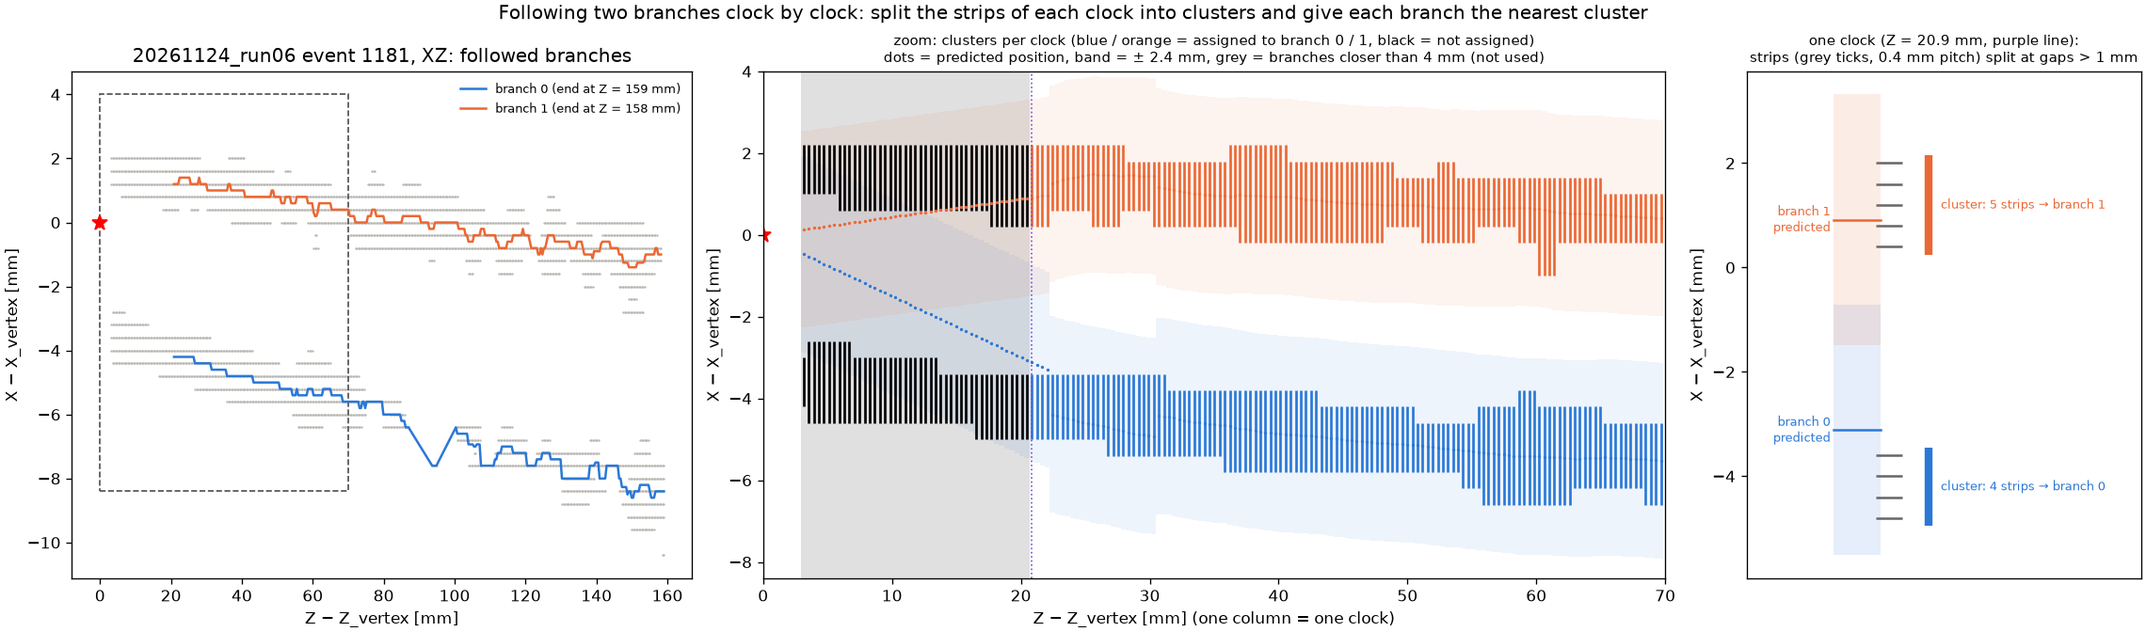
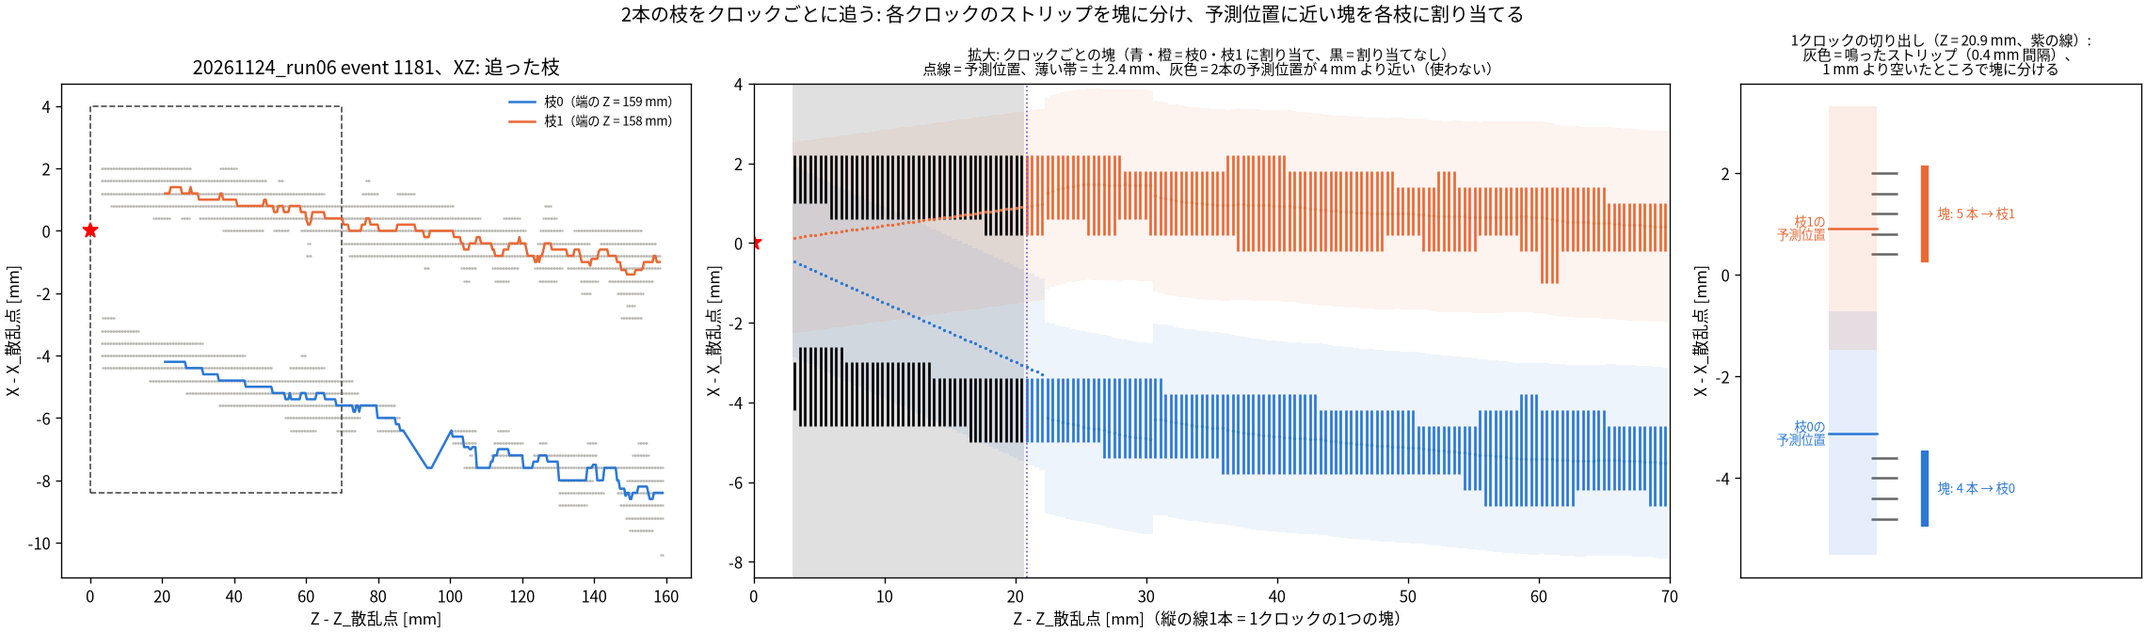
pair_analysis: README の説明用の図を日本語にし、予測に使う範囲の図を追加
模式図・相関の分布・塊の図・stage5 のイベントの絵を日本語にした（pipeline/plot_style.py で
Noto Sans CJK JP を使う）。stage4 の結果の図は英語のまま。
円の範囲（scan.radius_mm、pairing.context_mm）と、予測に使う Z 方向の帯（refit_length_mm）の
図（figures/pairing_ranges.png）を追加し、README に説明を書いた。
塊の「重心」を「中心」（ストリップの位置の平均、重みなし）に直した。

diff --git a/ETCC_cal/pair_analysis/make_cluster_figure.py b/ETCC_cal/pair_analysis/make_cluster_figure.py
@@ -2,9 +2,10 @@
 """README 用: 枝を追うときの「塊」の分け方と割り当てを、実際の DD イベント（1つの投影）で描く。raw を読む（SSD が要る）。
 
   python3 ETCC_cal/pair_analysis/make_cluster_figure.py [--run 20261124_run06] [--event 1181] [--axis 0] [--zoom 0 70]
-  → ETCC_cal/pair_analysis/figures/pairing_clusters.png
+  → ETCC_cal/pair_analysis/figures/pairing_clusters.png（塊の分け方と割り当て）
+    ETCC_cal/pair_analysis/figures/pairing_ranges.png（円の範囲と、予測に使う Z 方向の帯）
 
-左: 投影の全体（灰色の点 = ストリップ、色の線 = 枝に割り当てた塊の重心、四角 = 拡大する範囲）。
+左: 投影の全体（灰色の点 = ストリップ、色の線 = 枝に割り当てた塊の中心、四角 = 拡大する範囲）。
 中: 拡大。各クロックの塊を縦の線で描き、青 = 枝0、橙 = 枝1 に割り当てた塊、黒 = どちらにも割り当てなかった塊。
     細い点線 = 各枝の予測位置、薄い帯 = 予測位置 ± window_mm。灰色の網かけ = 2本の予測位置が shared_mm より近いクロック（使わない）。
 右: 1クロックの切り出し。ストリップ（縦の目盛り）を cluster_gap_mm より離れたところで塊に分け、予測位置に近い塊を割り当てる。
@@ -22,6 +23,7 @@ import numpy as np
 
 from pipeline.branch_pairing import follow_branches
 from pipeline.config import Pipeline
+from pipeline.plot_style import use_japanese_font
 from pipeline.stage5_event_display import read_hits
 
 COLORS = ("#2a78d6", "#eb6834")
@@ -35,7 +37,10 @@ def main():
     parser.add_argument("--event", type=int, default=1181, help="trig（epoch 0）")
     parser.add_argument("--axis", type=int, default=0, help="0 = XZ, 1 = YZ")
     parser.add_argument("--zoom", type=float, nargs=2, default=[0.0, 70.0], help="拡大する Z の範囲 [mm]")
+    parser.add_argument("--predict-at", type=float, default=100.0, help="予測の例を描く Z [mm]（pairing_ranges.png）")
+    parser.add_argument("--predict-branch", type=int, default=0, help="予測の例を描く枝")
     args = parser.parse_args()
+    use_japanese_font()
 
     pipeline = Pipeline(args.config)
     settings = pipeline.pairing
@@ -54,13 +59,13 @@ def main():
     ax = axes[0]
     ax.scatter(points[:, 0], points[:, 1], s=2, color="#b8b7b2", lw=0)
     for k in range(2):
-        ax.plot(paths[k][:, 0], paths[k][:, 1], color=COLORS[k], lw=1.5, label=f"branch {k} (end at Z = {ends[k]:.0f} mm)")
+        ax.plot(paths[k][:, 0], paths[k][:, 1], color=COLORS[k], lw=1.5, label=f"枝{k}（端の Z = {ends[k]:.0f} mm）")
     ax.plot(0, 0, "r*", ms=10)
     lo, hi = args.zoom
     visible = (points[:, 0] >= lo) & (points[:, 0] <= hi)
     ylo, yhi = points[visible, 1].min() - 2, points[visible, 1].max() + 2
     ax.add_patch(plt.Rectangle((lo, ylo), hi - lo, yhi - ylo, fill=False, ls="--", color="0.3"))
-    ax.set(xlabel="Z − Z_vertex [mm]", ylabel=f"{name} − {name}_vertex [mm]", title=f"{args.run} event {args.event}, {name}Z: followed branches")
+    ax.set(xlabel="Z - Z_散乱点 [mm]", ylabel=f"{name} - {name}_散乱点 [mm]", title=f"{args.run} event {args.event}、{name}Z: 追った枝")
     ax.legend(fontsize=8, frameon=False)
 
     ax = axes[1]
@@ -85,9 +90,9 @@ def main():
         example = next(r for r in shown if not r["shared"])
     ax.axvline(example["dz"], color="#7b4fd0", lw=1, ls=":")
     ax.plot(0, 0, "r*", ms=10)
-    ax.set(xlim=(lo, hi), ylim=(ylo, yhi), xlabel="Z − Z_vertex [mm] (one column = one clock)", ylabel=f"{name} − {name}_vertex [mm]",
-           title="zoom: clusters per clock (blue / orange = assigned to branch 0 / 1, black = not assigned)\n"
-                 f"dots = predicted position, band = ± {window:g} mm, grey = branches closer than {settings['shared_mm']:g} mm (not used)")
+    ax.set(xlim=(lo, hi), ylim=(ylo, yhi), xlabel="Z - Z_散乱点 [mm]（縦の線1本 = 1クロックの1つの塊）", ylabel=f"{name} - {name}_散乱点 [mm]",
+           title="拡大: クロックごとの塊（青・橙 = 枝0・枝1 に割り当て、黒 = 割り当てなし）\n"
+                 f"点線 = 予測位置、薄い帯 = ± {window:g} mm、灰色 = 2本の予測位置が {settings['shared_mm']:g} mm より近い（使わない）")
     ax.title.set_fontsize(9)
 
     ax = axes[2]  # 1クロックの切り出し
@@ -97,19 +102,76 @@ def main():
     for g, group in enumerate(r["groups"]):
         color = COLORS[owner[g]] if g in owner else "black"
         ax.plot([0.25, 0.25], [group.min() - 0.15, group.max() + 0.15], color=color, lw=5, solid_capstyle="butt")
-        ax.text(0.33, group.mean(), f"cluster: {len(group)} strips" + (f" → branch {owner[g]}" if g in owner else " (not assigned)"),
+        ax.text(0.33, group.mean(), f"塊: {len(group)} 本" + (f" → 枝{owner[g]}" if g in owner else "（割り当てなし）"),
                 va="center", fontsize=8, color=color)
     for k in range(2):
         if r["alive"][k]:
             p = r["predicted"][k]
             ax.plot([-0.35, -0.05], [p, p], color=COLORS[k], lw=1.5)
             ax.fill_between([-0.35, -0.05], p - window, p + window, color=COLORS[k], alpha=0.12, lw=0)
-            ax.text(-0.37, p, f"branch {k}\npredicted", ha="right", va="center", fontsize=8, color=COLORS[k])
-    ax.set(xlim=(-0.9, 1.6), xticks=[], ylabel=f"{name} − {name}_vertex [mm]",
-           title=f"one clock (Z = {r['dz']:.1f} mm, purple line):\nstrips (grey ticks, 0.4 mm pitch) split at gaps > {settings['cluster_gap_mm']:g} mm")
+            ax.text(-0.37, p, f"枝{k}の\n予測位置", ha="right", va="center", fontsize=8, color=COLORS[k])
+    ax.set(xlim=(-0.9, 1.6), xticks=[], ylabel=f"{name} - {name}_散乱点 [mm]",
+           title=f"1クロックの切り出し（Z = {r['dz']:.1f} mm、紫の線）:\n灰色 = 鳴ったストリップ（0.4 mm 間隔）、\n{settings['cluster_gap_mm']:g} mm より空いたところで塊に分ける")
     ax.title.set_fontsize(9)
-    fig.suptitle("Following two branches clock by clock: split the strips of each clock into clusters and give each branch the nearest cluster")
+    fig.suptitle("2本の枝をクロックごとに追う: 各クロックのストリップを塊に分け、予測位置に近い塊を各枝に割り当てる")
     target = Path(__file__).parent / "figures/pairing_clusters.png"
+    fig.savefig(target, dpi=120)
+    print("saved", target)
+    plot_ranges(args, pipeline, saved, row, points, paths, name)
+
+
+def plot_ranges(args, pipeline, saved, row, points, paths, name):
+    """円の範囲（scan.radius_mm、pairing.context_mm）と、予測に使う Z 方向の帯（refit_length_mm）を描く。"""
+    settings = pipeline.pairing
+    radius, context, refit = pipeline.scan["radius_mm"], settings["context_mm"], settings["refit_length_mm"]
+    window = settings["window_mm"]
+    fig, axes = plt.subplots(1, 2, figsize=(17, 5.8), constrained_layout=True, gridspec_kw={"width_ratios": [1, 1.25]})
+
+    ax = axes[0]  # 円の範囲
+    ax.scatter(points[:, 0], points[:, 1], s=2, color="#b8b7b2", lw=0)
+    theta = np.linspace(-np.pi / 2, np.pi / 2, 200)
+    ax.plot(radius * np.cos(theta), radius * np.sin(theta), color="#1baf7a", lw=1.5,
+            label=f"scan.radius_mm = {radius:g} mm（円）: 出発点の2本 fit に使うストリップ")
+    ax.plot(context * np.cos(theta), context * np.sin(theta), color="#7b4fd0", lw=1.5, ls="--",
+            label=f"pairing.context_mm = {context:g} mm（円）: 枝を追うのに使うストリップ")
+    z = np.array([0, context])
+    for k in range(2):
+        slope = saved["double"][row, args.axis, k]
+        ax.plot(z, slope * z, color=COLORS[k], lw=1, ls=":", label=f"枝{k}の出発点の直線（2本 fit）")
+    ax.plot(0, 0, "r*", ms=10)
+    ax.set(xlim=(-5, context + 10), ylim=(-context / 2, context / 2), xlabel="Z - Z_散乱点 [mm]", ylabel=f"{name} - {name}_散乱点 [mm]",
+           title="円の範囲: 投影の平面での散乱点からの距離 √(dz² + t²)")
+    ax.set_aspect("equal")
+    ax.legend(fontsize=7, frameon=False, loc="lower left")
+
+    ax = axes[1]  # Z 方向の帯で予測
+    k = args.predict_branch
+    path = paths[k]
+    z0 = args.predict_at
+    before = path[path[:, 0] < z0]
+    last = before[-1, 0]
+    used = before[before[:, 0] >= last - refit]
+    slope, intercept = np.polyfit(used[:, 0], used[:, 1], 1)
+    predicted = slope * z0 + intercept
+    lo, hi = last - refit - 25, z0 + 15
+    near = (points[:, 0] >= lo) & (points[:, 0] <= hi)
+    ax.scatter(points[near, 0], points[near, 1], s=3, color="#b8b7b2", lw=0, label="ストリップ")
+    ax.axvspan(last - refit, last, color=COLORS[k], alpha=0.10, lw=0,
+               label=f"refit_length_mm = {refit:g} mm: Z 方向の帯（dz >= 最後の中心 - {refit:g} mm）、円ではない")
+    other = before[before[:, 0] < last - refit]
+    ax.plot(other[:, 0], other[:, 1], "o", ms=3, color=COLORS[k], alpha=0.35, label=f"枝{k}の前の方の中心（使わない）")
+    ax.plot(used[:, 0], used[:, 1], "o", ms=3.5, color=COLORS[k], label=f"fit に使う中心（{len(used)} 個）")
+    zz = np.linspace(last - refit, z0, 50)
+    ax.plot(zz, slope * zz + intercept, color="black", lw=1.2, label="最小二乗の直線 t = 傾き·dz + 切片")
+    ax.errorbar([z0], [predicted], yerr=[window], fmt="s", color="black", ms=6, capsize=5,
+                label=f"Z = {z0:g} mm での予測位置 ± window_mm（{window:g} mm）")
+    ax.axvline(last, color="0.4", lw=0.8, ls=":")
+    ax.text(last, used[:, 1].max() + 3, " 最後の中心", fontsize=8, color="0.3")
+    ax.set(xlim=(lo, hi), xlabel="Z - Z_散乱点 [mm]", ylabel=f"{name} - {name}_散乱点 [mm]",
+           title=f"枝{k}の Z = {z0:g} mm での予測: その枝の塊の中心のうち、Z で直近 {refit:g} mm のものに直線を当てる")
+    ax.legend(fontsize=7, frameon=False, loc="best")
+    fig.suptitle(f"{args.run} event {args.event}、{name}Z: 枝を追うときに使う範囲")
+    target = Path(__file__).parent / "figures/pairing_ranges.png"
     fig.savefig(target, dpi=120)
     print("saved", target)
 

diff --git a/ETCC_cal/pair_analysis/pipeline/stage5_event_display.py b/ETCC_cal/pair_analysis/pipeline/stage5_event_display.py
@@ -16,6 +16,7 @@ from tpc_projected_pair import projected_hits
 from vertex_sphere import take_local_cells
 
 from .branch_pairing import correlation, decide, follow_branches
+from .plot_style import use_japanese_font
 from .stage3_classify import CLASS_NAMES, DD, DS, SD, classify
 
 BRANCH_COLORS = ("#2a78d6", "#eb6834")
@@ -55,14 +56,14 @@ def draw_projection(ax, hits, axis, single, double, is_two, radius, context):
         for branch in range(2):
             ax.plot(z, double[branch] * z, color=BRANCH_COLORS[branch], lw=1.4, alpha=0.85)
         a0, a1 = np.degrees(np.arctan(double[:2]))
-        label = f"2 lines: {a0:.1f}°, {a1:.1f}° (sep {a1 - a0:.1f}°), Z span {double[4]:.0f}/{double[5]:.0f} mm"
+        label = f"2本: {a0:.1f}°, {a1:.1f}°（差 {a1 - a0:.1f}°）、Z 幅 {double[4]:.0f}/{double[5]:.0f} mm"
     else:
         if np.isfinite(single[0]):
             ax.plot(z, single[0] * z, color=LINE_COLOR, lw=1.4, alpha=0.85)
-        label = f"1 line: {np.degrees(np.arctan(single[0])):.1f}°, on line {int(single[1])}/{int(single[2])}"
+        label = f"1本: {np.degrees(np.arctan(single[0])):.1f}°、乗った点 {int(single[1])}/{int(single[2])}"
     ax.add_patch(plt.Circle((0, 0), radius, fill=False, ls=":", color="0.5"))
     ax.plot(0, 0, "r*", ms=9)
-    ax.set(xlim=(-5, context), ylim=(-context / 2, context / 2), xlabel="Z − Z_vertex [mm]", ylabel=f"{name} − {name}_vertex [mm]")
+    ax.set(xlim=(-5, context), ylim=(-context / 2, context / 2), xlabel="Z - Z_散乱点 [mm]", ylabel=f"{name} - {name}_散乱点 [mm]")
     ax.set_aspect("equal")
     ax.set_title(f"{name}Z: {label}", fontsize=8)
 
@@ -73,6 +74,7 @@ def run(pipeline, cut_set_names=None):
         print("== stage5: event display disabled in the config", flush=True)
         return
     print("== stage5: event display", flush=True)
+    use_japanese_font()  # このステージの図は README の説明用なので日本語にする
     dataset, run_name = settings["dataset"], settings["run"]
     radius, context = pipeline.scan["radius_mm"], settings["context_mm"]
     saved = np.load(pipeline.stage_dir(2, dataset) / f"{run_name}.npz")
@@ -100,9 +102,9 @@ def run(pipeline, cut_set_names=None):
                 event = int(saved["event"][i])
                 x, y, z = saved["vertex"][i]
                 extra = f", ψ = {psi[i]:.0f}°" if code == DD else ""
-                axes[r, 0].text(0.01, 0.97, f"{run_name} event {event >> 32}:{event & 0xFFFFFFFF}\nvertex ({x:.1f}, {y:.1f}, {z:.1f}) mm{extra}",
+                axes[r, 0].text(0.01, 0.97, f"{run_name} event {event >> 32}:{event & 0xFFFFFFFF}\n散乱点 ({x:.1f}, {y:.1f}, {z:.1f}) mm{extra}",
                                 transform=axes[r, 0].transAxes, va="top", fontsize=7)
-            fig.suptitle(f"[{cut_name}] {CLASS_NAMES[code]} events, {run_name}: black = strips used (≤ {radius:g} mm), grey = up to {context:g} mm")
+            fig.suptitle(f"[{cut_name}] {CLASS_NAMES[code]} のイベント、{run_name}: 黒 = fit に使ったストリップ（{radius:g} mm 以内）、灰色 = {context:g} mm 以内")
             target = folder / f"{run_name}_{CLASS_NAMES[code]}_{settings['skip']}.png"
             fig.savefig(target, dpi=110)
             plt.close(fig)
@@ -113,7 +115,7 @@ def run(pipeline, cut_set_names=None):
 def draw_pairing(pipeline, cut_name, cuts, saved, run_name, dataset, folder, settings):
     """DD の枝を追った様子と、組み方の決め方（ストリップ数の相関）を描く。
 
-    1行 = 1イベント。左: XZ、中: YZ（灰色の点 = ストリップ、色の線 = 枝に割り当てた塊の重心。決めた組み方で
+    1行 = 1イベント。左: XZ、中: YZ（灰色の点 = ストリップ、色の線 = 枝に割り当てた塊の中心。決めた組み方で
     同じ粒子の XZ と YZ の枝を同じ色にする）。右: クロックごとのストリップ数（実線 = XZ の枝、点線 = YZ の枝）。
     """
     count = settings.get("pairing_count", 0)
@@ -164,9 +166,9 @@ def draw_pairing(pipeline, cut_name, cuts, saved, run_name, dataset, folder, set
                 if len(paths[b]):
                     ax.plot(paths[b][:, 0], paths[b][:, 1], color=color, lw=1.4, label=label)
             ax.plot(0, 0, "r*", ms=9)
-            ax.set(xlabel="Z − Z_vertex [mm]", ylabel=f"{name} − {name}_vertex [mm]", xlim=(-5, context * 0.8))
+            ax.set(xlabel="Z - Z_散乱点 [mm]", ylabel=f"{name} - {name}_散乱点 [mm]", xlim=(-5, context * 0.8))
             ax.legend(fontsize=7, frameon=False, loc="upper left")
-            ax.set_title(f"{name}Z: followed branches (colour = paired)", fontsize=9)
+            ax.set_title(f"{name}Z: 追った枝（同じ色 = 同じ粒子と判定）", fontsize=9)
         ax = axes[row, 2]
         for a in range(2):
             for axis, style in ((0, "-"), (1, "--")):
@@ -177,14 +179,14 @@ def draw_pairing(pipeline, cut_name, cuts, saved, run_name, dataset, folder, set
                     ax.plot(clocks * mm_per_clock, [series[c] for c in clocks], style, color=colors[a], lw=1,
                             label=f"{'a' if axis == 0 else 'b'}{branch}")
         r_a, r_b = np.nanmean([r[0, 0], r[1, 1]]), np.nanmean([r[0, 1], r[1, 0]])
-        chosen = "A (a0-b0, a1-b1)" if pairing == 1 else "B (a0-b1, a1-b0)"
-        ax.set(xlabel="Z − Z_vertex [mm]", ylabel="strips per clock on the branch",
+        chosen = "組み方 A（a0-b0, a1-b1）" if pairing == 1 else "組み方 B（a0-b1, a1-b0）"
+        ax.set(xlabel="Z - Z_散乱点 [mm]", ylabel="その枝の1クロックのストリップ数",
                title=f"r00 {r[0, 0]:.2f}, r11 {r[1, 1]:.2f}, r01 {r[0, 1]:.2f}, r10 {r[1, 0]:.2f}  →  r_A {r_a:.2f}, r_B {r_b:.2f}: {chosen}")
         ax.title.set_fontsize(8)
         ax.legend(fontsize=7, frameon=False, ncol=2)
         event = int(saved["event"][i])
         axes[row, 0].text(0.01, 0.03, f"{run_name} event {event >> 32}:{event & 0xFFFFFFFF}", transform=axes[row, 0].transAxes, fontsize=7)
-    fig.suptitle(f"[{cut_name}] DD branch pairing, {run_name}: solid = XZ branch, dashed = its paired YZ branch (same colour = same particle)")
+    fig.suptitle(f"[{cut_name}] DD の枝の組み方、{run_name}: 実線 = XZ の枝、点線 = それと組んだ YZ の枝（同じ色 = 同じ粒子）")
     target = folder / f"{run_name}_DD_pairing_{settings['skip']}.png"
     fig.savefig(target, dpi=110)
     plt.close(fig)

diff --git a/ETCC_cal/pair_analysis/make_schematic.py b/ETCC_cal/pair_analysis/make_schematic.py
@@ -3,12 +3,17 @@
 
   python3 ETCC_cal/pair_analysis/make_schematic.py   → ETCC_cal/pair_analysis/figures/pairing_schematic.png
 """
+import sys
 from pathlib import Path
+
+sys.path.insert(0, str(Path(__file__).resolve().parents[1]))
 
 import matplotlib
 matplotlib.use("Agg")
 import matplotlib.pyplot as plt
 import numpy as np
+
+from pipeline.plot_style import use_japanese_font
 
 # 例: 粒子1 と 粒子2 の傾き (dx/dz, dy/dz)。本当の組み方は A とする。
 P1 = (-0.10, -0.06)
@@ -17,6 +22,7 @@ BLUE, ORANGE, GREY, RED = "#2a78d6", "#eb6834", "#7a7a7a", "#e34948"
 
 
 def main():
+    use_japanese_font()
     a = sorted([P1[0], P2[0]])          # XZ の2本（傾きの小さい順）: a0, a1
     b = sorted([P1[1], P2[1]])          # YZ の2本: b0, b1
     z = np.array([0, 100])
@@ -26,34 +32,34 @@ def main():
     for k, (slope, color) in enumerate(zip(a, (BLUE, ORANGE))):
         ax.plot(z, slope * z, color=color, lw=2.5, label=f"a{k}  (dx/dz = {slope:+.2f})")
     ax.plot(0, 0, "r*", ms=12)
-    ax.set(xlabel="Z (drift, beam) [mm]", ylabel="X [mm]", title="XZ (anode strips): two branches a0, a1", ylim=(-20, 20))
+    ax.set(xlabel="Z（ドリフト方向、ビーム方向）[mm]", ylabel="X [mm]", title="XZ（アノードのストリップ）: 2本の枝 a0, a1", ylim=(-20, 20))
     ax.legend(frameon=False)
 
     ax = axes[1]
     for k, slope in enumerate(b):
         ax.plot(z, slope * z, color=GREY, lw=2.5, ls="-" if k == 0 else "--", label=f"b{k}  (dy/dz = {slope:+.2f})")
     ax.plot(0, 0, "r*", ms=12)
-    ax.set(xlabel="Z (drift, beam) [mm]", ylabel="Y [mm]", title="YZ (cathode strips): two branches b0, b1\nwhich one belongs to a0?", ylim=(-20, 20))
+    ax.set(xlabel="Z（ドリフト方向、ビーム方向）[mm]", ylabel="Y [mm]", title="YZ（カソードのストリップ）: 2本の枝 b0, b1\na0 と同じ粒子はどちら?", ylim=(-20, 20))
     ax.legend(frameon=False)
 
     ax = axes[2]  # ビームに垂直な面（傾き = 横方向の向き）
     dx, dy = a[1] - a[0], b[1] - b[0]
-    for label, sign, color, style in (("A: a0-b0, a1-b1", +1, RED, "-"), ("B: a0-b1, a1-b0", -1, GREY, "--")):
+    for label, sign, color, style in (("組み方 A: a0-b0, a1-b1", +1, RED, "-"), ("組み方 B: a0-b1, a1-b0", -1, GREY, "--")):
         phi = np.degrees(np.arctan2(sign * dy, dx))
         ends = np.array([[a[0], b[0] if sign > 0 else b[1]], [a[1], b[1] if sign > 0 else b[0]]])
         ax.plot(ends[:, 0], ends[:, 1], style, color=color, lw=2)
         ax.scatter(ends[:, 0], ends[:, 1], color=color, s=60, zorder=3)
-        ax.annotate(f"{label}\nφ = atan2({'+' if sign > 0 else '−'}Δy', Δx') = {phi:+.0f}°", ends[1], textcoords="offset points",
+        ax.annotate(f"{label}\nφ = atan2({'+' if sign > 0 else '-'}Δy', Δx') = {phi:+.0f}°", ends[1], textcoords="offset points",
                     xytext=(8, -4 if sign > 0 else -30), color=color, fontsize=9)
     ax.axhline(0, color="0.85", lw=0.8)
     ax.axvline(0, color="0.85", lw=0.8)
-    ax.set(xlabel="dx/dz (direction across the beam)", ylabel="dy/dz", title="Transverse plane: the pair plane is φ (A) or −φ (B)",
+    ax.set(xlabel="dx/dz（ビームに垂直な向き）", ylabel="dy/dz", title="ビームに垂直な面: e+e- 面は φ（A）か -φ（B）",
            xlim=(-0.2, 0.5), ylim=(-0.2, 0.2))
     ax.set_aspect("equal")
-    ax.text(0.02, 0.02, "Without pairing only |φ| (folded ψ, 0-90°) is known:\n"
-            "1 + μ cos 2(φ − φ0)  →  1 + μ cos 2φ0 · cos 2ψ  (flat for φ0 = 45°)",
+    ax.text(0.02, 0.02, "組み方が分からないと |φ|（折り返した ψ、0〜90°）しか分からない:\n"
+            "1 + μ cos 2(φ - φ0)  →  1 + μ cos 2φ0 · cos 2ψ（φ0 = 45° なら平ら）",
             transform=ax.transAxes, fontsize=8, color="0.3")
-    fig.suptitle("Why the XZ / YZ branch pairing is ambiguous (two tracks read out as two 2D projections)")
+    fig.suptitle("XZ と YZ の枝の組み方が曖昧な理由（2本の飛跡を2つの2次元の投影で読み出す）")
     target = Path(__file__).parent / "figures/pairing_schematic.png"
     fig.savefig(target, dpi=120)
     print("saved", target)

diff --git a/ETCC_cal/pair_analysis/make_pairing_stats.py b/ETCC_cal/pair_analysis/make_pairing_stats.py
@@ -19,6 +19,7 @@ import matplotlib.pyplot as plt
 import numpy as np
 
 from pipeline.config import Pipeline
+from pipeline.plot_style import use_japanese_font
 from pipeline.stage3_classify import DD, classify, load_sample
 
 
@@ -27,6 +28,7 @@ def main():
     parser.add_argument("--config", type=Path, default=Path(__file__).parent / "config/20261124_25_polarization.json")
     parser.add_argument("--cut-set", default="default")
     args = parser.parse_args()
+    use_japanese_font()
     pipeline = Pipeline(args.config)
     cuts = pipeline.cut_sets[args.cut_set]
     threshold = pipeline.pairing["min_r_difference"]
@@ -54,17 +56,17 @@ def main():
     fig, axes = plt.subplots(1, 2, figsize=(13, 4.6), constrained_layout=True)
     bins = np.linspace(-1, 1, 41)
     ax = axes[0]
-    ax.hist(better, bins=bins, histtype="step", lw=2, color="#2a78d6", label=f"chosen pairing: mean {better.mean():.2f}")
-    ax.hist(worse, bins=bins, histtype="step", lw=2, color="#7a7a7a", label=f"other pairing: mean {worse.mean():.2f}")
-    ax.set(xlabel="correlation of strips per clock (mean of the two branch pairs)", ylabel="DD events",
-           title=f"Per-clock strip-count correlation, {ok.sum():,} DD")
+    ax.hist(better, bins=bins, histtype="step", lw=2, color="#2a78d6", label=f"選んだ組み方: 平均 {better.mean():.2f}")
+    ax.hist(worse, bins=bins, histtype="step", lw=2, color="#7a7a7a", label=f"選ばなかった組み方: 平均 {worse.mean():.2f}")
+    ax.set(xlabel="クロックごとのストリップ数の相関（2組の平均: r_A または r_B）", ylabel="DD のイベント数",
+           title=f"クロックごとのストリップ数の相関（DD {ok.sum():,} 件）")
     ax.legend(frameon=False, fontsize=9)
     ax = axes[1]
     ax.hist(diff, bins=np.linspace(-2, 2, 41), color="#2a78d6", alpha=0.85)
     ax.axvspan(-threshold, threshold, color="0.85", zorder=0)
-    ax.set(xlabel="r_A − r_B   (> 0: A = a0-b0, a1-b1;  < 0: B = a0-b1, a1-b0)", ylabel="DD events",
-           title=f"Decided by correlation (|r_A − r_B| >= {threshold:g}, outside the grey band): "
-                 f"{decided.sum():,} of {ok.sum():,} ({100 * decided.mean():.0f}%)")
+    ax.set(xlabel="r_A - r_B（正: 組み方 A = a0-b0, a1-b1、負: 組み方 B = a0-b1, a1-b0）", ylabel="DD のイベント数",
+           title=f"相関で決まったもの（|r_A - r_B| >= {threshold:g}、灰色の帯の外）: "
+                 f"{decided.sum():,} / {ok.sum():,} 件（{100 * decided.mean():.0f}%）")
     ax.title.set_fontsize(10)
     target = Path(__file__).parent / "figures/pairing_correlation.png"
     fig.savefig(target, dpi=120)

diff --git a/ETCC_cal/pair_analysis/pipeline/plot_style.py b/ETCC_cal/pair_analysis/pipeline/plot_style.py
@@ -1,0 +1,11 @@
+"""図の文字を日本語にするための設定（README の説明用の図で使う）。"""
+import matplotlib
+
+JAPANESE_FONTS = ["Noto Sans CJK JP", "Droid Sans Japanese", "DejaVu Sans"]
+
+
+def use_japanese_font():
+    """日本語のフォントを使う。マイナス記号はフォントに無いことがあるので ASCII の '-' にする。"""
+    matplotlib.rcParams["font.family"] = "sans-serif"
+    matplotlib.rcParams["font.sans-serif"] = JAPANESE_FONTS + list(matplotlib.rcParams["font.sans-serif"])
+    matplotlib.rcParams["axes.unicode_minus"] = False
